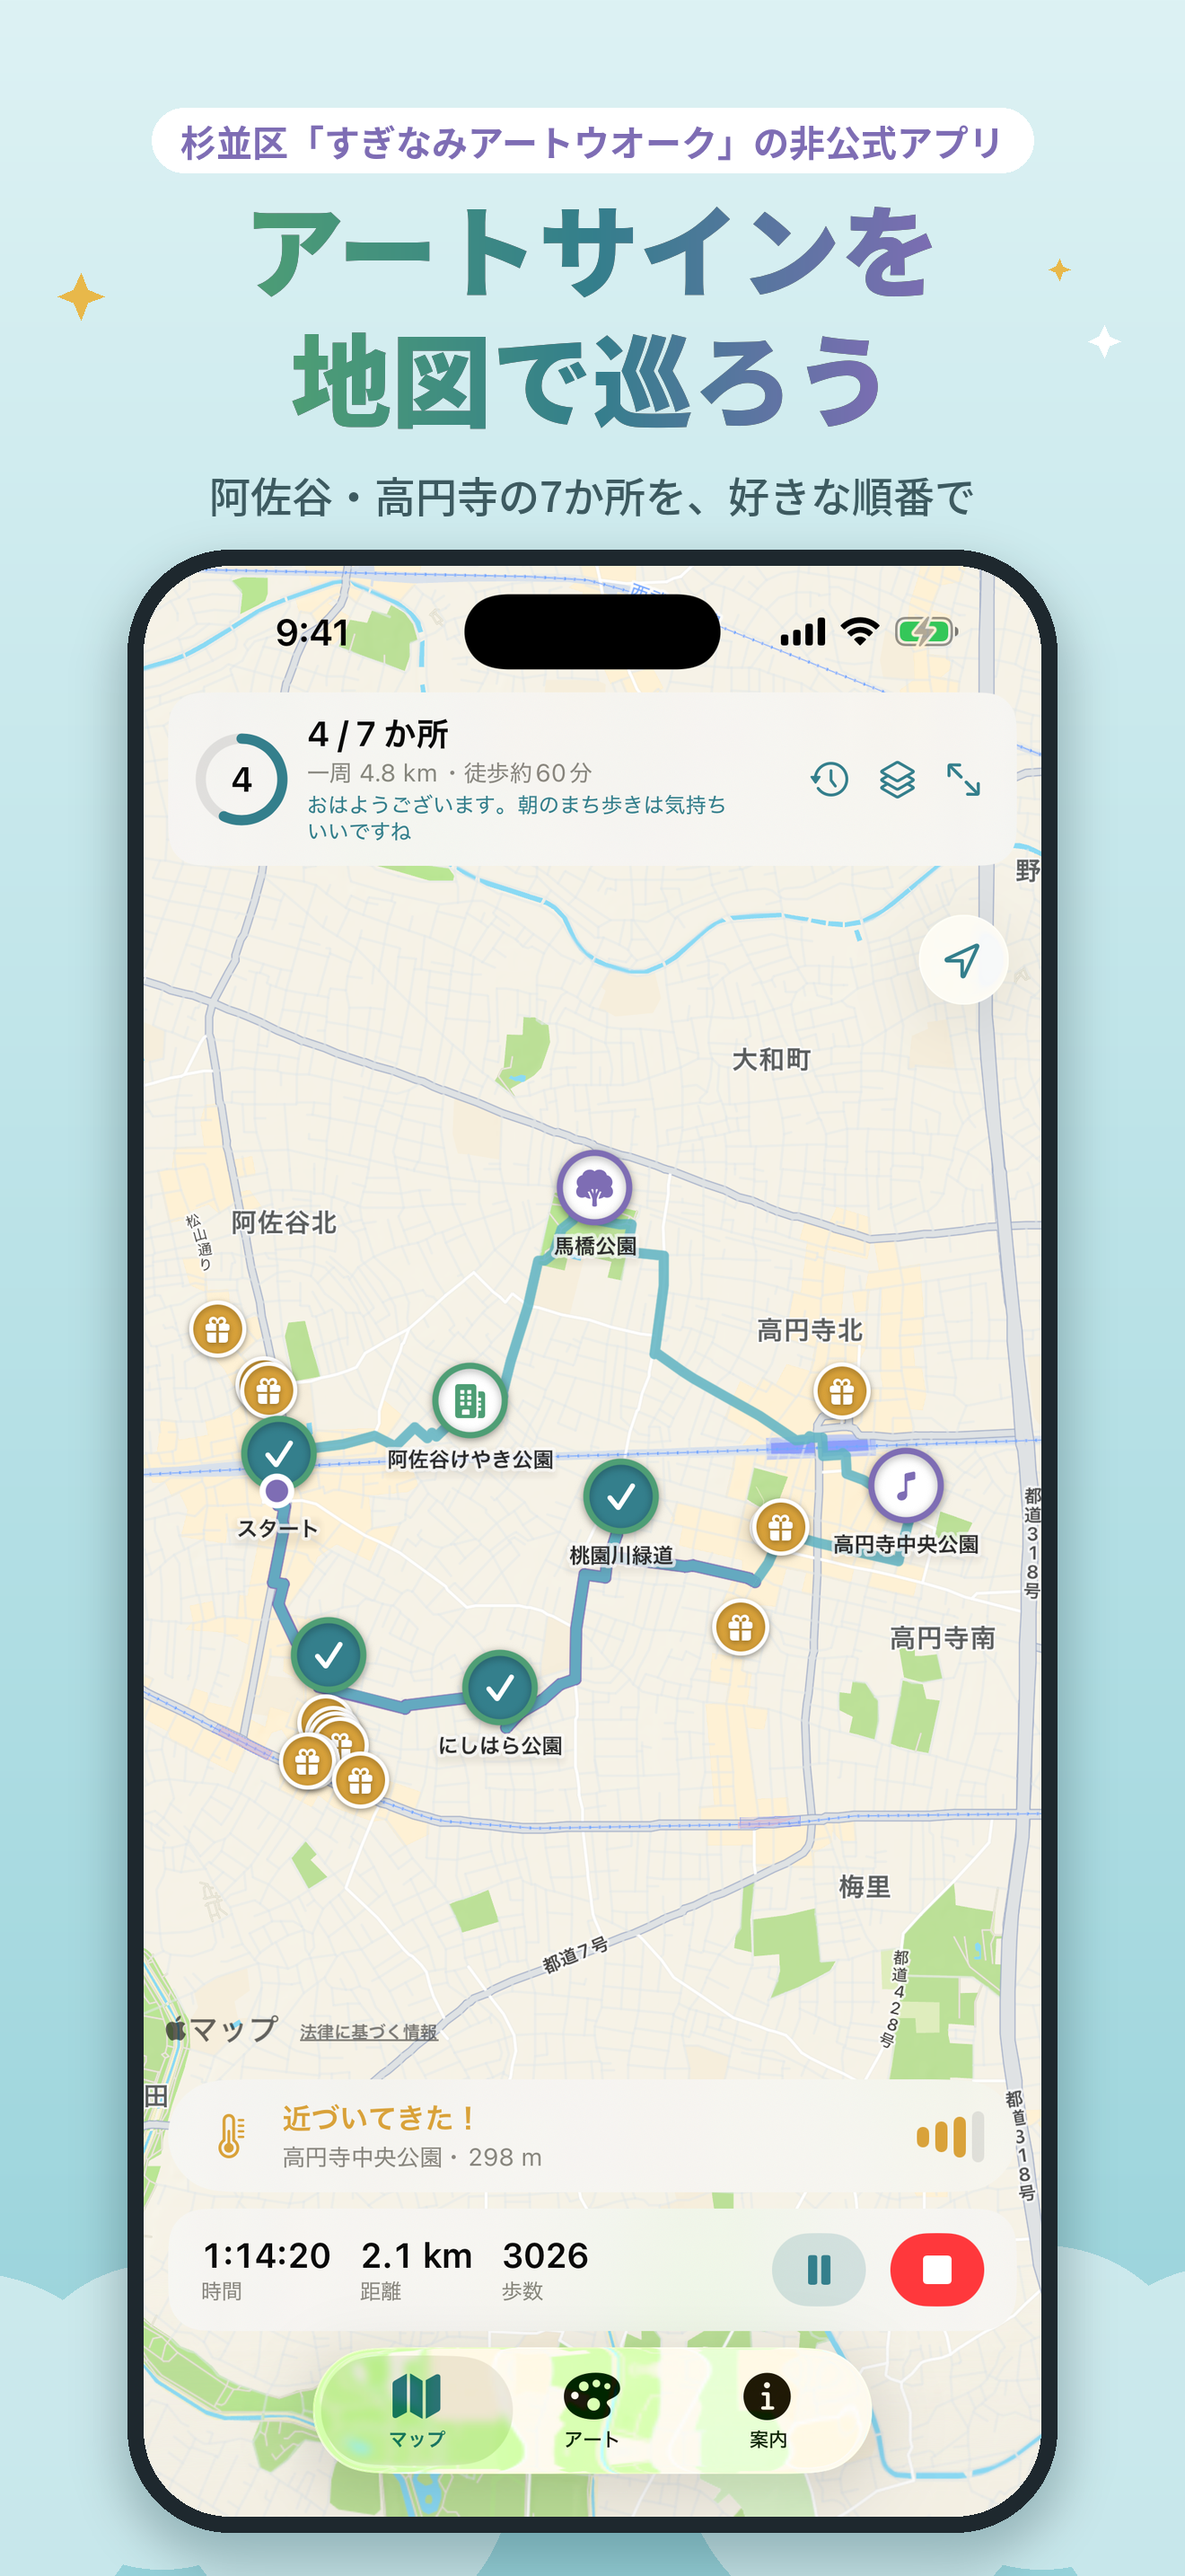
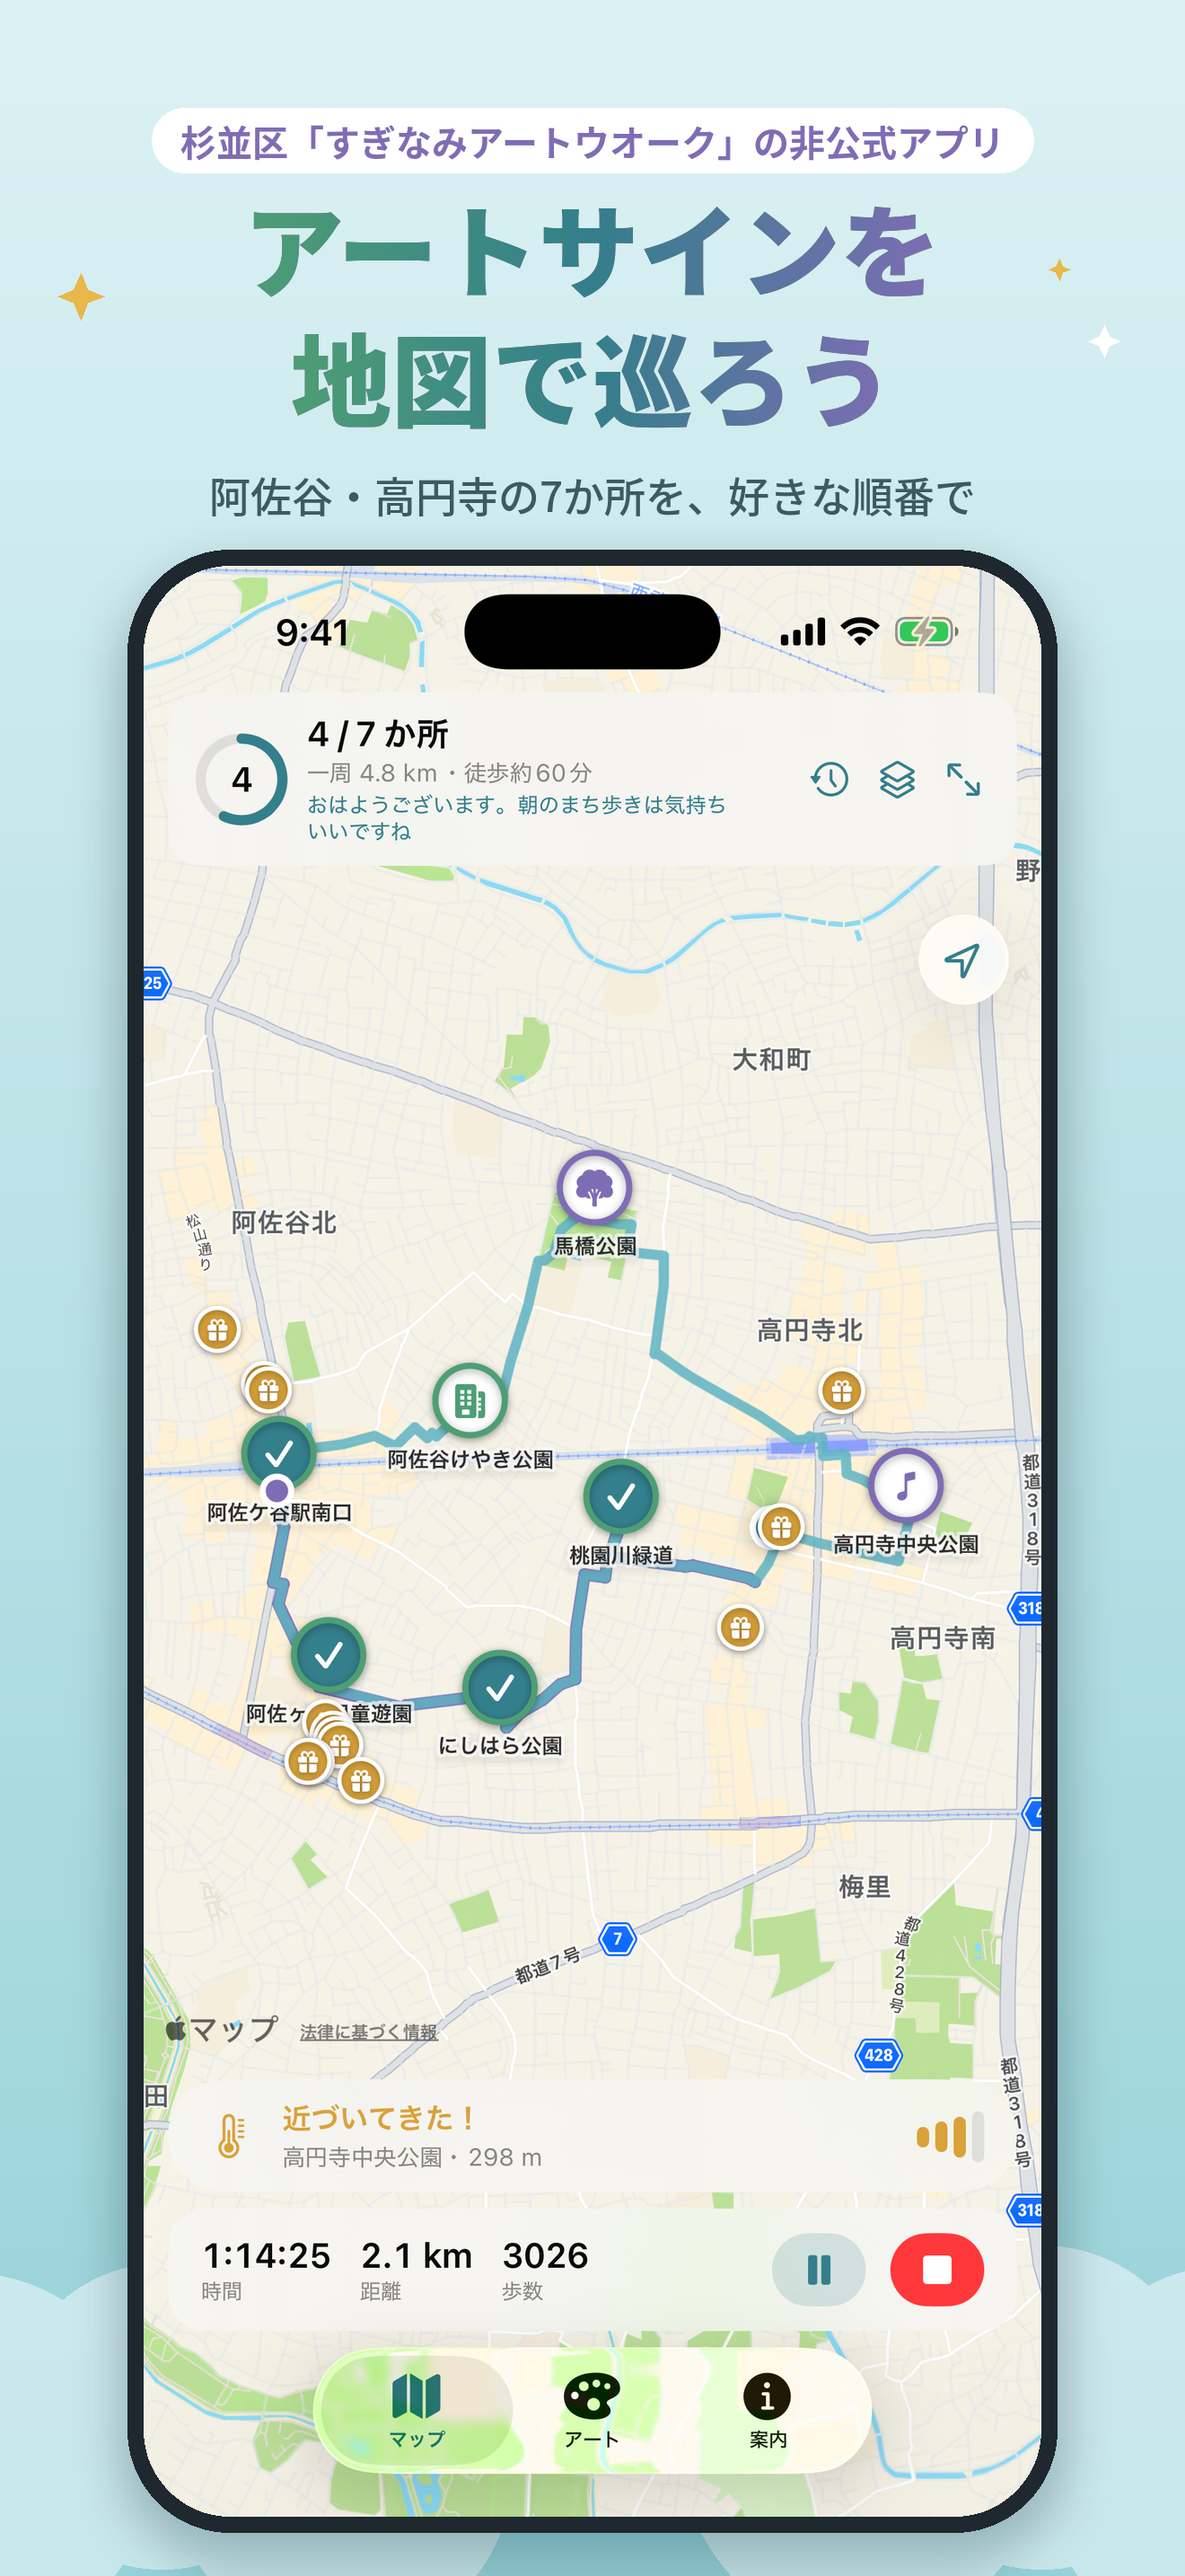
近くのノベルティ配布場所を1つのピンにまとめ、アートサインの名前にかぶらないようにする
Claude-Session: https://claude.ai/code/session_019oA26LEt3XaoosVr2h1XF1

diff --git a/SuginamiArtWalk/Views/NoveltyViews.swift b/SuginamiArtWalk/Views/NoveltyViews.swift
@@ -207,3 +207,103 @@ struct NoticeBanner: View {
         .background(.regularMaterial, in: RoundedRectangle(cornerRadius: 14))
     }
 }
+
+
+// MARK: - 地図用のまとめピン
+
+/// 近い配布場所（約90m以内）をひとまとめにしたもの
+struct NoveltyGroup: Identifiable {
+    let id: String
+    let spots: [NoveltySpot]
+    let coordinate: CLLocationCoordinate2D
+
+    var title: String {
+        spots.count == 1 ? spots[0].name : "\(spots[0].street)ほか \(spots.count)か所"
+    }
+
+    static func make(from content: ContentStore, radius: CLLocationDistance = 90) -> [NoveltyGroup] {
+        let items: [(NoveltySpot, CLLocation)] = content.spots
+            .filter { $0.currentStatus() != .ended }
+            .compactMap { s in content.coordinate(for: s).map { (s, CLLocation(latitude: $0.latitude, longitude: $0.longitude)) } }
+        var groups: [[(NoveltySpot, CLLocation)]] = []
+        for item in items {
+            if let i = groups.firstIndex(where: { g in g.contains { $0.1.distance(from: item.1) <= radius } }) {
+                groups[i].append(item)
+            } else {
+                groups.append([item])
+            }
+        }
+        return groups.map { g in
+            let lat = g.map { $0.1.coordinate.latitude }.reduce(0, +) / Double(g.count)
+            let lon = g.map { $0.1.coordinate.longitude }.reduce(0, +) / Double(g.count)
+            return NoveltyGroup(id: g.map { $0.0.id }.joined(separator: "+"),
+                                spots: g.map(\.0),
+                                coordinate: .init(latitude: lat, longitude: lon))
+        }
+    }
+}
+
+struct NoveltyGroupPin: View {
+    let group: NoveltyGroup
+
+    var body: some View {
+        if group.spots.count == 1 {
+            NoveltyPin(spot: group.spots[0])
+        } else {
+            NoveltyPin(spot: group.spots[0])
+                .overlay(alignment: .topTrailing) {
+                    Text("\(group.spots.count)")
+                        .font(.system(size: 10, weight: .heavy, design: .rounded))
+                        .foregroundStyle(.white)
+                        .frame(minWidth: 15, minHeight: 15)
+                        .background(Circle().fill(Theme.koenji))
+                        .overlay(Circle().stroke(.white, lineWidth: 1.5))
+                        .offset(x: 7, y: -7)
+                }
+                .accessibilityElement(children: .ignore)
+                .accessibilityLabel("ノベルティ配布場所 \(group.spots.count)か所")
+        }
+    }
+}
+
+/// まとめピンをタップしたときの一覧
+struct NoveltyGroupView: View {
+    let group: NoveltyGroup
+    @Environment(\.dismiss) private var dismiss
+
+    var body: some View {
+        List {
+            Section {
+                ForEach(group.spots) { spot in
+                    NavigationLink {
+                        NoveltySpotView(spot: spot)
+                    } label: {
+                        VStack(alignment: .leading, spacing: 3) {
+                            HStack(spacing: 6) {
+                                Text(spot.name).font(.headline)
+                                if let status = spot.statusText {
+                                    Text(status)
+                                        .font(.caption2.bold())
+                                        .padding(.horizontal, 6).padding(.vertical, 2)
+                                        .background(Theme.novelty.opacity(0.2), in: Capsule())
+                                }
+                            }
+                            Text("\(spot.hours)・休み：\(spot.closed)").font(.caption)
+                        }
+                    }
+                }
+            } header: {
+                Text(group.spots[0].street)
+            } footer: {
+                Text("最新の配布状況は公式の一覧や店舗でご確認ください。")
+            }
+        }
+        .navigationTitle("ノベルティ配布場所")
+        .navigationBarTitleDisplayMode(.inline)
+        .toolbar {
+            ToolbarItem(placement: .confirmationAction) {
+                Button("閉じる") { dismiss() }
+            }
+        }
+    }
+}

diff --git a/SuginamiArtWalk/Views/MapScreen.swift b/SuginamiArtWalk/Views/MapScreen.swift
@@ -16,6 +16,7 @@ struct MapScreen: View {
     @State private var finishedRecord: WalkRecord?
     @State private var showHistory = false
     @State private var selectedSpot: NoveltySpot?
+    @State private var selectedGroup: NoveltyGroup?
     @AppStorage("map.showNovelty") private var showNovelty = true
 
     static let overview = MKCoordinateRegion(
@@ -61,14 +62,17 @@ struct MapScreen: View {
                 }
 
                 if showNovelty {
-                    ForEach(content.spots.filter { $0.currentStatus() != .ended }) { spot in
-                        if let c = content.coordinate(for: spot) {
-                            Annotation(spot.name, coordinate: c, anchor: .center) {
-                                Button { selectedSpot = spot } label: { NoveltyPin(spot: spot) }
-                                    .buttonStyle(.plain)
+                    // 近くの配布場所は1つのピンにまとめる（アートサインの名前を隠さないように）
+                    ForEach(NoveltyGroup.make(from: content)) { group in
+                        Annotation(group.title, coordinate: group.coordinate, anchor: .center) {
+                            Button {
+                                if group.spots.count == 1 { selectedSpot = group.spots[0] } else { selectedGroup = group }
+                            } label: {
+                                NoveltyGroupPin(group: group)
                             }
-                            .annotationTitles(.hidden)
+                            .buttonStyle(.plain)
                         }
+                        .annotationTitles(.hidden)
                     }
                 }
 
@@ -103,6 +107,11 @@ struct MapScreen: View {
                 .padding(.bottom, 8)
             }
             .toolbar(.hidden, for: .navigationBar)
+            .sheet(item: $selectedGroup) { group in
+                NavigationStack { NoveltyGroupView(group: group) }
+                    .presentationDetents([.medium, .large])
+                    .presentationDragIndicator(.visible)
+            }
             .sheet(item: $selectedSpot) { spot in
                 NavigationStack { NoveltySpotView(spot: spot) }
                     .presentationDetents([.medium, .large])
